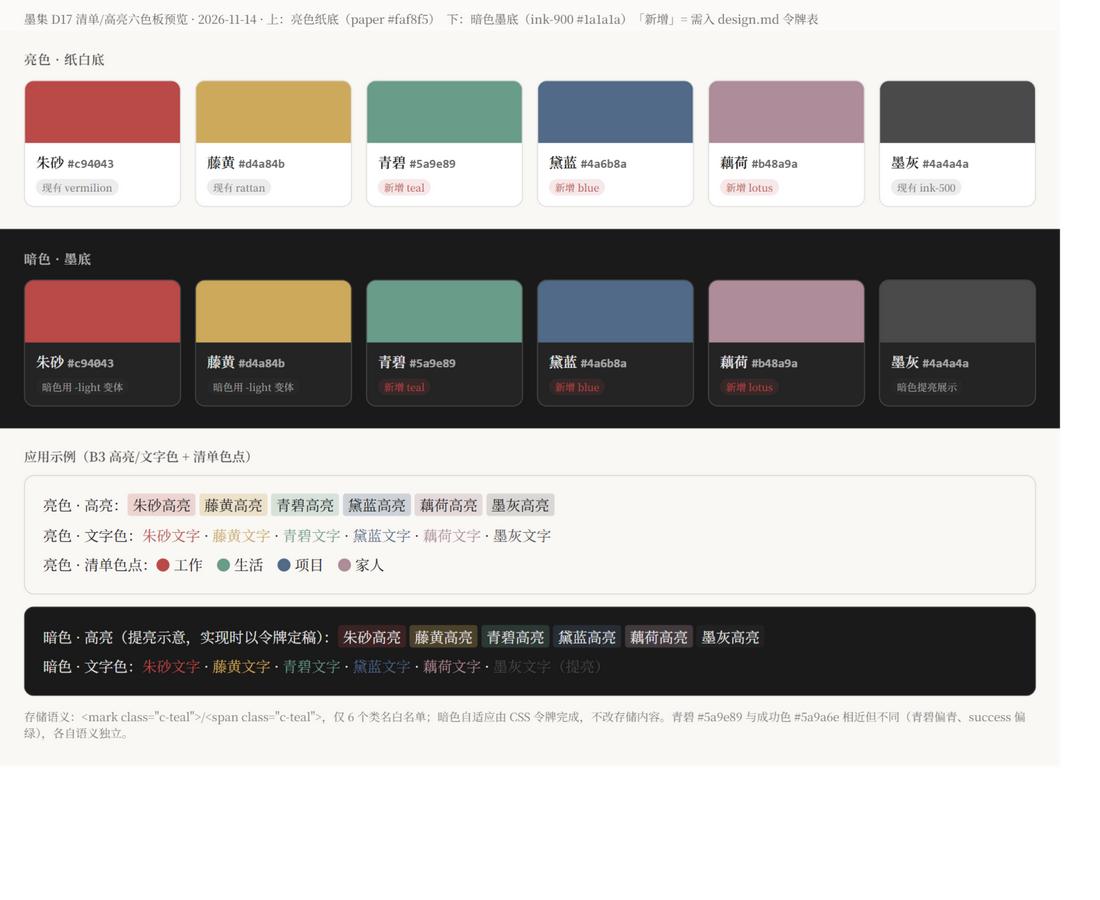
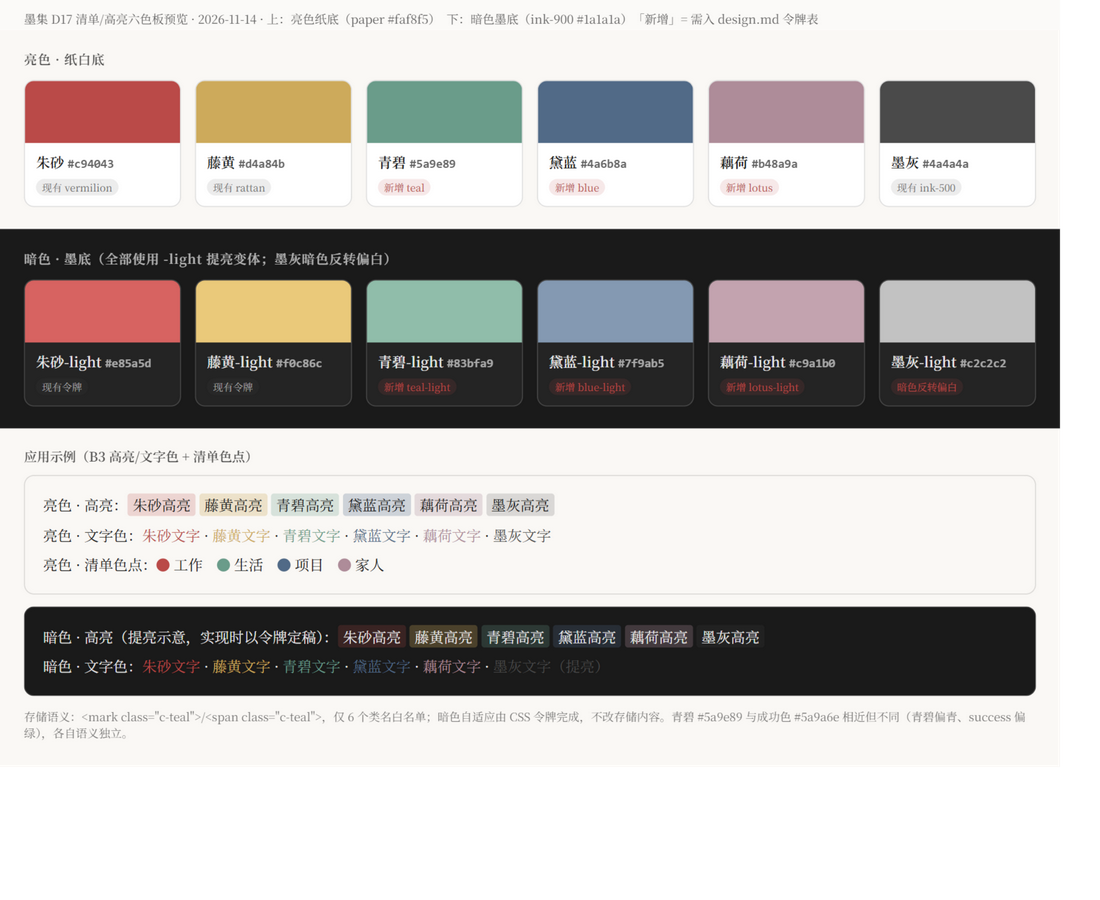
docs(decision): D17 暗色变体补充——全六色 -light 提亮, 墨灰暗色反转偏白(#c2c2c2)
- 用户反馈: 白底墨灰偏黑, 墨底需偏白; 其余色暗色适当提亮
- 暗色变体: vermilion-light #e85a5d/rattan-light #f0c86c(已有),
  teal-light #83bfa9/blue-light #7f9ab5/lotus-light #c9a1b0/gray-light #c2c2c2(新增)
- 预览图已更新(palette-preview.png); 规格已同步 Worker-5(B2-F1)

Changed region(s): [[0.0, 0.28, 0.6491, 0.4356], [0.7727, 0.3111, 0.9582, 0.4356], [0.68, 0.3733, 0.7418, 0.4356]]

diff --git a/moji/docs/_work/palette-preview.html b/moji/docs/_work/palette-preview.html
@@ -30,17 +30,22 @@
   .c-vermilion { color: #c94043; } .c-rattan { color: #d4a84b; }
   .c-teal { color: #5a9e89; } .c-blue { color: #4a6b8a; }
   .c-lotus { color: #b48a9a; } .c-gray { color: #4a4a4a; }
-  .dark .c-gray { color: #a8a8a8; }
   /* 高亮：亮色纸底用原色淡染；暗色底示意用提亮变体 */
   .hl-vermilion { background: rgba(201,64,67,.20); } .hl-rattan { background: rgba(212,168,75,.28); }
   .hl-teal { background: rgba(90,158,137,.24); } .hl-blue { background: rgba(74,107,138,.26); }
   .hl-lotus { background: rgba(180,138,154,.28); } .hl-gray { background: rgba(74,74,74,.18); }
-  .dark .hl-vermilion { background: #e0767a; color: #1a1a1a; }
-  .dark .hl-rattan { background: #e3c078; color: #1a1a1a; }
+  .dark .hl-vermilion { background: #e85a5d; color: #1a1a1a; }
+  .dark .hl-rattan { background: #f0c86c; color: #1a1a1a; }
   .dark .hl-teal { background: #83bfa9; color: #1a1a1a; }
   .dark .hl-blue { background: #7f9ab5; color: #1a1a1a; }
   .dark .hl-lotus { background: #c9a1b0; color: #1a1a1a; }
-  .dark .hl-gray { background: #9a9a9a; color: #1a1a1a; }
+  .dark .hl-gray { background: #c2c2c2; color: #1a1a1a; }
+  .dark .c-vermilion { color: #e85a5d; }
+  .dark .c-rattan { color: #f0c86c; }
+  .dark .c-teal { color: #83bfa9; }
+  .dark .c-blue { color: #7f9ab5; }
+  .dark .c-lotus { color: #c9a1b0; }
+  .dark .c-gray { color: #c2c2c2; }
   .dot { display: inline-block; width: 13px; height: 13px; border-radius: 50%; margin: 0 4px -1px 0; }
   .note { font-size: 11.5px; opacity: .6; margin-top: 6px; }
 </style>
@@ -62,14 +67,14 @@
 </div>
 
 <div class="row dark">
-  <h2>暗色 · 墨底</h2>
+  <h2>暗色 · 墨底（全部使用 -light 提亮变体；墨灰暗色反转偏白）</h2>
   <div class="swatches">
-    <div class="card"><div class="chip" style="background:#c94043"></div><div class="meta"><div class="name">朱砂 <span class="hex">#c94043</span></div><span class="tag kept">暗色用 -light 变体</span></div></div>
-    <div class="card"><div class="chip" style="background:#d4a84b"></div><div class="meta"><div class="name">藤黄 <span class="hex">#d4a84b</span></div><span class="tag kept">暗色用 -light 变体</span></div></div>
-    <div class="card"><div class="chip" style="background:#5a9e89"></div><div class="meta"><div class="name">青碧 <span class="hex">#5a9e89</span></div><span class="tag new">新增 teal</span></div></div>
-    <div class="card"><div class="chip" style="background:#4a6b8a"></div><div class="meta"><div class="name">黛蓝 <span class="hex">#4a6b8a</span></div><span class="tag new">新增 blue</span></div></div>
-    <div class="card"><div class="chip" style="background:#b48a9a"></div><div class="meta"><div class="name">藕荷 <span class="hex">#b48a9a</span></div><span class="tag new">新增 lotus</span></div></div>
-    <div class="card"><div class="chip" style="background:#4a4a4a"></div><div class="meta"><div class="name">墨灰 <span class="hex">#4a4a4a</span></div><span class="tag kept">暗色提亮展示</span></div></div>
+    <div class="card"><div class="chip" style="background:#e85a5d"></div><div class="meta"><div class="name">朱砂-light <span class="hex">#e85a5d</span></div><span class="tag kept">现有令牌</span></div></div>
+    <div class="card"><div class="chip" style="background:#f0c86c"></div><div class="meta"><div class="name">藤黄-light <span class="hex">#f0c86c</span></div><span class="tag kept">现有令牌</span></div></div>
+    <div class="card"><div class="chip" style="background:#83bfa9"></div><div class="meta"><div class="name">青碧-light <span class="hex">#83bfa9</span></div><span class="tag new">新增 teal-light</span></div></div>
+    <div class="card"><div class="chip" style="background:#7f9ab5"></div><div class="meta"><div class="name">黛蓝-light <span class="hex">#7f9ab5</span></div><span class="tag new">新增 blue-light</span></div></div>
+    <div class="card"><div class="chip" style="background:#c9a1b0"></div><div class="meta"><div class="name">藕荷-light <span class="hex">#c9a1b0</span></div><span class="tag new">新增 lotus-light</span></div></div>
+    <div class="card"><div class="chip" style="background:#c2c2c2"></div><div class="meta"><div class="name">墨灰-light <span class="hex">#c2c2c2</span></div><span class="tag new">暗色反转偏白</span></div></div>
   </div>
 </div>
 

diff --git a/moji/docs/gaps-and-decisions.md b/moji/docs/gaps-and-decisions.md
@@ -109,7 +109,7 @@
 | D9 | 路由要不要 URL 同步？ | `/todos?list=&task=` / 不同步 | **要**，与 `/notes/:id` 先例一致；刷新/分享链接可还原现场；task 选中态用查询参数而非路径 |
 | D10 | 手动拖拽排序一期做吗？ | 做 / 不做 | **不做**，保持现有排序（创建/截止/优先级）；数据模型不预留 sortOrder，避免为用不到的字段付迁移成本 |
 | D11 | 已完成怎么展示？ | 底部折叠分组（滴答式）/ 沿用筛选 | **底部折叠分组**，替代现有「状态筛选」；筛选只保留优先级 |
-| D17 | 清单色板具体色值？ | **已拍板（暂定，2026-11-14 用户确认预览图）** | 朱砂 `#c94043`（vermilion）/ 藤黄 `#d4a84b`（rattan）/ 青碧 `#5a9e89`（teal）/ 黛蓝 `#4a6b8a`（blue）/ 藕荷 `#b48a9a`（lotus）/ 墨灰 `#4a4a4a`（ink-500）。青碧/黛蓝/藕荷入 design.md 令牌表 + tailwind；暗色提亮变体 teal-light `#83bfa9` / blue-light `#7f9ab5` / lotus-light `#c9a1b0`；语义类名统一 `c-vermilion / c-rattan / c-teal / c-blue / c-lotus / c-gray`，笔记高亮/文字色与清单色板同源（预览存档 `docs/_work/palette-preview.png`） |
+| D17 | 清单色板具体色值？ | **已拍板（暂定，2026-11-14；暗色变体经用户反馈补充）** | 亮色六色：朱砂 `#c94043`（vermilion）/ 藤黄 `#d4a84b`（rattan）/ 青碧 `#5a9e89`（teal）/ 黛蓝 `#4a6b8a`（blue）/ 藕荷 `#b48a9a`（lotus）/ 墨灰 `#4a4a4a`（ink-500）。**暗色全部使用 -light 提亮变体**：vermilion-light `#e85a5d`（已有）/ rattan-light `#f0c86c`（已有）/ teal-light `#83bfa9` / blue-light `#7f9ab5` / lotus-light `#c9a1b0` / **gray-light `#c2c2c2`（墨灰暗色反转偏白，用户明确要求：白底偏黑、墨底偏白）**。语义类名统一 `c-vermilion / c-rattan / c-teal / c-blue / c-lotus / c-gray`，笔记高亮/文字色与清单色板同源（预览存档 `docs/_work/palette-preview.png`） |
 | D18 | emoji 图标选择器？ | 全量 emoji 库 / 有限集合 / 不做 | **有限集合**（约 30 个常用），全量 emoji 数据体积不值；也可一期只做空白+色点 |
 | D20 | 旧筛选工具条去留？ | 全删 / 保留优先级筛选 | **保留优先级筛选**（收进列表头部右侧小控件），状态筛选被 D11 取代，排序保留 |
 

diff --git a/moji/docs/_work/cards/B2-F1.md b/moji/docs/_work/cards/B2-F1.md
@@ -24,8 +24,8 @@
 
 ## 实现要点
 
-1. `src/design/palette.ts`：导出六色数组 `[{ key:'vermilion', name:'朱砂', hex:'#c94043', className:'c-vermilion' }, rattan 藤黄 #d4a84b, teal 青碧 #5a9e89, blue 黛蓝 #4a6b8a, lotus 藕荷 #b48a9a, gray 墨灰 #4a4a4a]`，附暗色 light 变体映射 `teal-light #83bfa9 / blue-light #7f9ab5 / lotus-light #c9a1b0`（vermilion/rattan 的 light 变体若 tailwind 已有沿用，没有则一并在 config 定义）。此文件是 B3-T1b 高亮类名白名单的唯一来源。
-2. tailwind.config：colors 增加 teal/blue/lotus（及 light 变体）；不改动既有 ink/vermilion/rattan/paper/success 令牌。
+1. `src/design/palette.ts`：导出六色数组 `[{ key:'vermilion', name:'朱砂', hex:'#c94043', className:'c-vermilion' }, rattan 藤黄 #d4a84b, teal 青碧 #5a9e89, blue 黛蓝 #4a6b8a, lotus 藕荷 #b48a9a, gray 墨灰 #4a4a4a]`，附**全六色**暗色 light 变体映射（D17 暗色补充，2026-11-14 用户反馈）：`vermilion-light #e85a5d`（tailwind 已有）/ `rattan-light #f0c86c`（已有）/ `teal-light #83bfa9` / `blue-light #7f9ab5` / `lotus-light #c9a1b0` / `gray-light #c2c2c2`（墨灰暗色反转偏白）。此文件是 B3-T1b 高亮类名白名单的唯一来源。
+2. tailwind.config：colors 增加 teal/blue/lotus 基色 + teal-light/blue-light/lotus-light/gray-light；vermilion-light/rattan-light 已有不动；不改动其余既有令牌。
 3. ListRail 改色交互：新建清单输入行旁加六色块选择（默认墨灰 #4a4a4a，即 updateList 缺省前新建默认值改为所选色）；已有清单 hover 操作增加「改色」，点开六色小面板（含当前色高亮态），点选即 `updateList(id,{color})` 关闭。Keyboard/Esc 可关闭，外点关闭。
 4. 色点渲染沿用 list.color；六色之外的存量颜色（如导入数据）正常显示，改色面板仅提供六色。
 5. design.md §2.1 表补三行令牌 + 暗色变体说明；§4.11 清单栏节补改色交互一句。

diff --git a/moji/docs/_work/STATE.md b/moji/docs/_work/STATE.md
@@ -31,7 +31,7 @@
 
 ## 3. 决策日志
 
-- **2026-11-14 · D17 暂定拍板（用户真实回复「颜色暂定可用这些」）**：六色 = 朱砂 #c94043 / 藤黄 #d4a84b / 青碧 #5a9e89 / 黛蓝 #4a6b8a / 藕荷 #b48a9a / 墨灰 #4a4a4a；暗色提亮 teal-light #83bfa9 / blue-light #7f9ab5 / lotus-light #c9a1b0；语义类名 c-vermilion/c-rattan/c-teal/c-blue/c-lotus/c-gray。已回写 gaps-and-decisions.md。唯一事实源 = `src/design/palette.ts`（B2-F1 建）。
+- **2026-11-14 · D17 暂定拍板（用户真实回复「颜色暂定可用这些」）+ 暗色补充（用户反馈：墨灰暗色反转偏白、其余色暗色适当提亮）**：亮色六色 = 朱砂 #c94043 / 藤黄 #d4a84b / 青碧 #5a9e89 / 黛蓝 #4a6b8a / 藕荷 #b48a9a / 墨灰 #4a4a4a；暗色 -light 变体全套 = vermilion-light #e85a5d（已有）/ rattan-light #f0c86c（已有）/ teal-light #83bfa9 / blue-light #7f9ab5 / lotus-light #c9a1b0 / gray-light #c2c2c2（偏白反转）；语义类名 c-vermilion/c-rattan/c-teal/c-blue/c-lotus/c-gray。已回写 gaps-and-decisions.md。唯一事实源 = `src/design/palette.ts`（B2-F1 建）。
 - 2026-11-14：初始化。既定决策以 `docs/gaps-and-decisions.md` 为准（D1–D20 倾向视为已确认，用户开工未提异议）。新决策编号从 D21 起追加。
 - 2026-11-14（范围修正，非新决策）：B1-T1 发现 `completed→status`（D3）是类型级破坏变更，波及 11 个源文件 + 6 个测试文件。B1-T1 卡扩为「数据模型 v2 + 消费方最小机械适配」，机械适配仅限编译级修复与 D2 新建默认 `priority:'none'`，不加任何新 UI。
 - 2026-11-14（实现约定）：`updateList` patch 语义 = 显式传 `undefined` 的字段即清空（icon 一期可清，D18「空白+色点」路线需要）。
